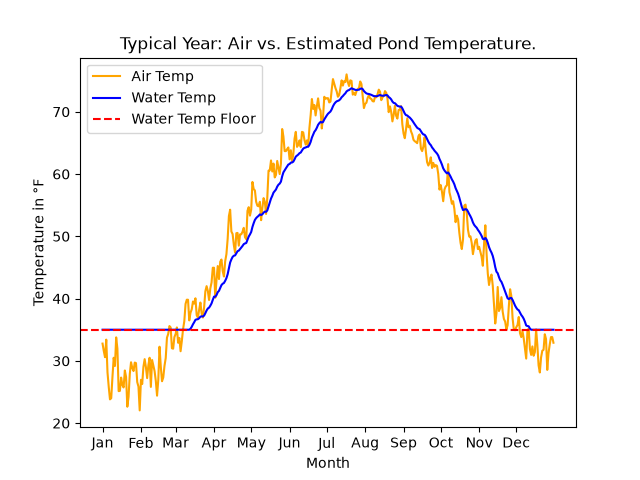
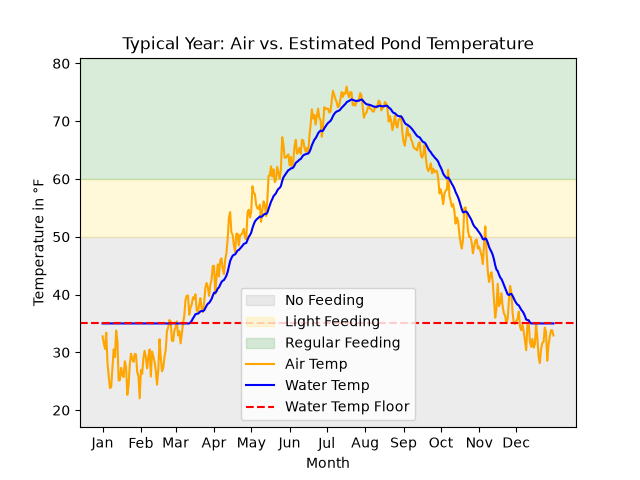
Add feeding zone bands to air vs. water temp chart

diff --git a/python/data/build_year.py b/python/data/build_year.py
@@ -86,10 +86,16 @@ def estimate_water_temp(df: pd.DataFrame) -> pd.DataFrame:
 
 def plot_air_vs_water_temp(year: pd.DataFrame) -> None:
     """Plot air vs. estimated water temperature and save it to docs."""
+    y_min = year["air_temp"].min() - 5
+    y_max = year["air_temp"].max() + 5
+    plt.axhspan(y_min, FEEDING_STOP_TEMP, color="gray", alpha=0.15, label="No Feeding")
+    plt.axhspan(FEEDING_STOP_TEMP, FEEDING_REGULAR_TEMP, color="gold", alpha=0.15, label="Light Feeding")
+    plt.axhspan(FEEDING_REGULAR_TEMP, y_max, color="green", alpha=0.15, label="Regular Feeding")
+    plt.ylim(y_min, y_max)
     plt.plot(year["day"], year["air_temp"], label="Air Temp", color="orange")
     plt.plot(year["day"], year["water_temp"], label="Water Temp", color="blue")
     plt.axhline(WATER_TEMP_FLOOR, color="red", linestyle="--", linewidth=1.5, label="Water Temp Floor")
-    plt.title("Typical Year: Air vs. Estimated Pond Temperature")
+    plt.title("Typical Year: Pond Temperature and Feeding Zones")
     plt.xlabel("Month")
     plt.ylabel("Temperature in °F")
     plt.xticks(ticks=[1, 32, 60, 91, 121, 152, 182, 213, 244, 274, 305, 335],
